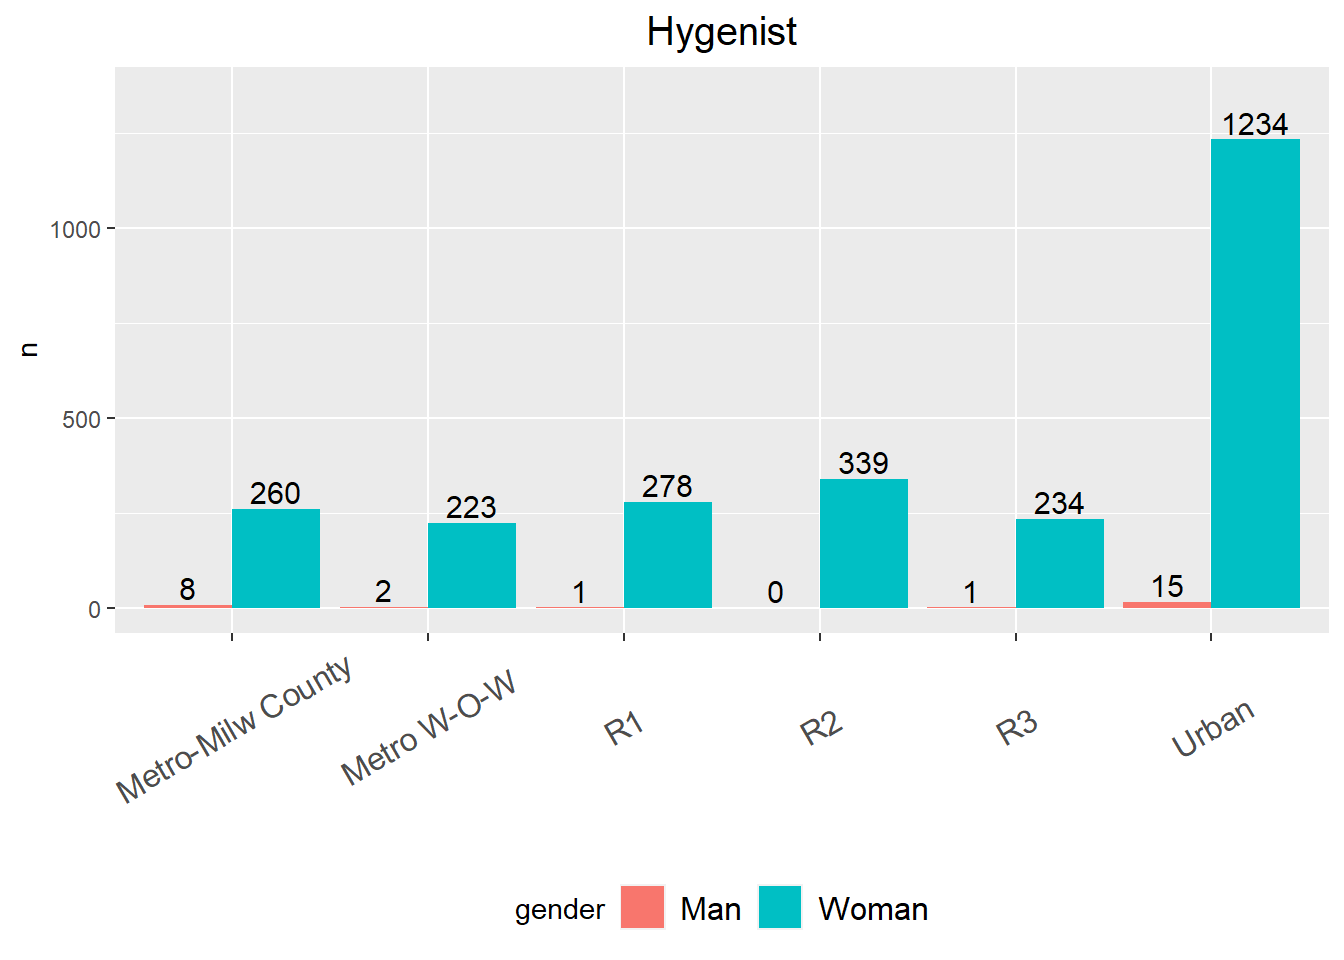
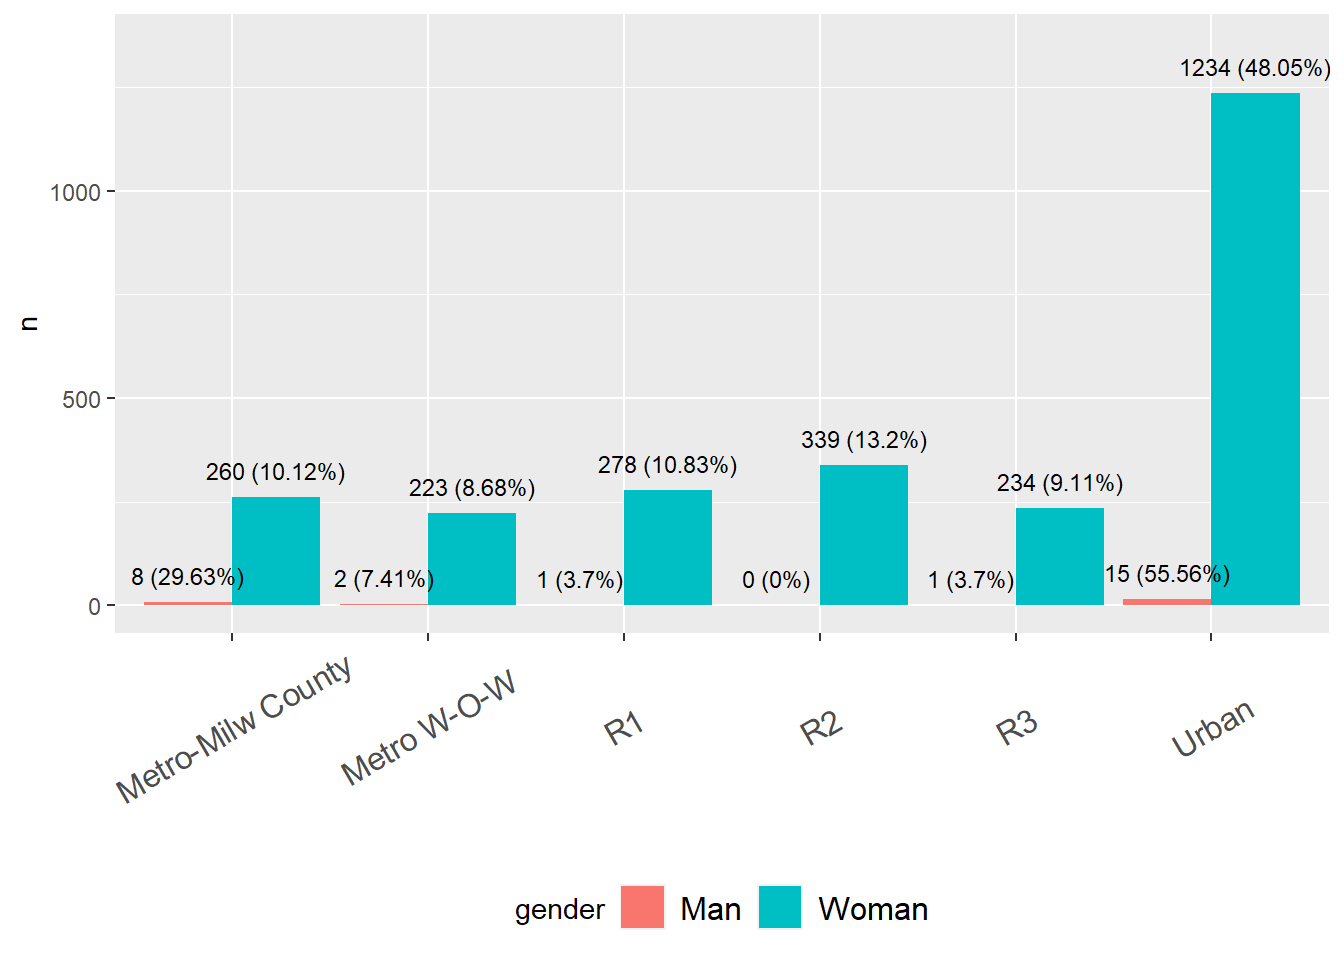
9/5/2024

diff --git a/docs/2024_0701_survey.html b/docs/2024_0701_survey.html
@@ -574,15 +574,15 @@ analysis/Rfunctions.R
 <div class="panel panel-default">
 <div class="panel-heading">
 <p class="panel-title">
-<a data-toggle="collapse" data-parent="#workflowr-checks" href="#strongRepositoryversionstrongahrefhttpsgithubcomhan16Collaborationstreebf9902418870bff7b124f9c7e870b2d677e77616targetblankbf99024a">
+<a data-toggle="collapse" data-parent="#workflowr-checks" href="#strongRepositoryversionstrongahrefhttpsgithubcomhan16Collaborationstree0af905612153265ea258df860f1b224e6300734btargetblank0af9056a">
 <span class="glyphicon glyphicon-ok text-success"
 aria-hidden="true"></span> <strong>Repository version:</strong>
-<a href="https://github.com/han16/Collaborations/tree/bf9902418870bff7b124f9c7e870b2d677e77616" target="_blank">bf99024</a>
+<a href="https://github.com/han16/Collaborations/tree/0af905612153265ea258df860f1b224e6300734b" target="_blank">0af9056</a>
 </a>
 </p>
 </div>
 <div
[2 lines of base64/hex data omitted]
 class="panel-collapse collapse">
 <div class="panel-body">
 <p>
@@ -592,7 +592,7 @@ reproducibility.
 </p>
 <p>
 The results in this page were generated with repository version
-<a href="https://github.com/han16/Collaborations/tree/bf9902418870bff7b124f9c7e870b2d677e77616" target="_blank">bf99024</a>.
+<a href="https://github.com/han16/Collaborations/tree/0af905612153265ea258df860f1b224e6300734b" target="_blank">0af9056</a>.
 See the <em>Past versions</em> tab to see a history of the changes made
 to the R Markdown and HTML files.
 </p>
@@ -658,6 +658,40 @@ Message
 </tr>
 </thead>
 <tbody>
+<tr>
+<td>
+Rmd
+</td>
+<td>
+<a href="https://github.com/han16/Collaborations/blob/0af905612153265ea258df860f1b224e6300734b/analysis/2024_0701_survey.Rmd" target="_blank">0af9056</a>
+</td>
+<td>
+han
+</td>
+<td>
+2024-09-05
+</td>
+<td>
+9/5/2024
+</td>
+</tr>
+<tr>
+<td>
+html
+</td>
+<td>
+<a href="https://rawcdn.githack.com/han16/Collaborations/0af905612153265ea258df860f1b224e6300734b/docs/2024_0701_survey.html" target="_blank">0af9056</a>
+</td>
+<td>
+han
+</td>
+<td>
+2024-09-05
+</td>
+<td>
+9/5/2024
+</td>
+</tr>
 <tr>
 <td>
 Rmd
@@ -2170,6 +2204,17 @@ Date
 <tbody>
 <tr>
 <td>
+<a href="https://github.com/han16/Collaborations/blob/0af905612153265ea258df860f1b224e6300734b/docs/figure/2024_0701_survey.Rmd/unnamed-chunk-13-1.png" target="_blank">0af9056</a>
+</td>
+<td>
+han
+</td>
+<td>
+2024-09-05
+</td>
+</tr>
+<tr>
+<td>
 <a href="https://github.com/han16/Collaborations/blob/bf9902418870bff7b124f9c7e870b2d677e77616/docs/figure/2024_0701_survey.Rmd/unnamed-chunk-13-1.png" target="_blank">bf99024</a>
 </td>
 <td>
@@ -2257,6 +2302,17 @@ Date
 </tr>
 </thead>
 <tbody>
+<tr>
+<td>
+<a href="https://github.com/han16/Collaborations/blob/0af905612153265ea258df860f1b224e6300734b/docs/figure/2024_0701_survey.Rmd/unnamed-chunk-14-1.png" target="_blank">0af9056</a>
+</td>
+<td>
+han
+</td>
+<td>
+2024-09-05
+</td>
+</tr>
 <tr>
 <td>
 <a href="https://github.com/han16/Collaborations/blob/bf9902418870bff7b124f9c7e870b2d677e77616/docs/figure/2024_0701_survey.Rmd/unnamed-chunk-14-1.png" target="_blank">bf99024</a>
@@ -2892,7 +2948,14 @@ datatable(extensions = &#39;Buttons&#39;,
 gender_prop=sapply(gender_geo, function(x) c(sum(x==&quot;Man&quot;, na.rm = T), sum(x==&quot;Woman&quot;, na.rm = T))) 
 gender_geo_data=data.frame(geo=rep(region_code_update,each=2), num=as.vector(gender_prop), gender=rep(c(&quot;Man&quot;, &quot;Woman&quot;), length(region_code_update))) %&gt;% drop_na()
 
-fig=side_by_side_barplot(gender_geo_data, angle=30, num_size = 4, x_text_size=12, legend_text_size=12, title=&quot;Hygenist&quot;)
+man_total=sum(gender_geo_data %&gt;% filter(gender==&quot;Man&quot;) %&gt;% select(num) %&gt;% pull())
+woman_total=sum(gender_geo_data %&gt;% filter(gender==&quot;Woman&quot;) %&gt;% select(num) %&gt;% pull())
+prop=numeric()
+prop[seq(1,11,by=2)]=gender_geo_data$num[seq(1,11,by=2)]/man_total
+prop[seq(2,12,by=2)]=gender_geo_data$num[seq(2,12,by=2)]/woman_total
+gender_geo_data=gender_geo_data %&gt;% mutate(prop=round(prop,4))
+
+fig=side_by_side_barplot(gender_geo_data, angle=30, num_size = 3, x_text_size=12, legend_text_size=12, title=&quot;Hygenist&quot;)
 fig</code></pre>
 <p><img src="figure/2024_0701_survey.Rmd/unnamed-chunk-26-1.png" width="672" style="display: block; margin: auto;" /></p>
 <p>
@@ -2940,7 +3003,7 @@ datatable(extensions = &#39;Buttons&#39;,
                            lengthMenu = list(c(10,25,50,-1),
                                              c(10,25,50,&quot;All&quot;))))</code></pre>
 <div class="datatables html-widget html-fill-item" id="htmlwidget-969965edfe9f869aa904" style="width:100%;height:auto;"></div>
-<script type="application/json" data-for="htmlwidget-969965edfe9f869aa904">{"x":{"filter":"none","vertical":false,"extensions":["Buttons"],"caption":"<caption><\/caption>","data":[["1","2","3","4","5","6","7","8","9","10","11","12"],["R1","R1","Metro W-O-W","Metro W-O-W","Urban","Urban","R2","R2","R3","R3","Metro-Milw County","Metro-Milw County"],[1,278,2,223,15,1234,0,339,1,234,8,260],["Man","Woman","Man","Woman","Man","Woman","Man","Woman","Man","Woman","Man","Woman"]],"container":"<table class=\"display\">\n  <thead>\n    <tr>\n      <th> <\/th>\n      <th>geo<\/th>\n      <th>num<\/th>\n      <th>gender<\/th>\n    <\/tr>\n  <\/thead>\n<\/table>","options":{"dom":"Blfrtip","buttons":["copy","csv","excel","pdf","print"],"lengthMenu":[[10,25,50,-1],["10","25","50","All"]],"columnDefs":[{"className":"dt-right","targets":2},{"orderable":false,"targets":0},{"name":" ","targets":0},{"name":"geo","targets":1},{"name":"num","targets":2},{"name":"gender","targets":3}],"order":[],"autoWidth":false,"orderClasses":false},"selection":{"mode":"multiple","selected":null,"target":"row","selectable":null}},"evals":[],"jsHooks":[]}</script>
+<script type="application/json" data-for="htmlwidget-969965edfe9f869aa904">{"x":{"filter":"none","vertical":false,"extensions":["Buttons"],"caption":"<caption><\/caption>","data":[["1","2","3","4","5","6","7","8","9","10","11","12"],["R1","R1","Metro W-O-W","Metro W-O-W","Urban","Urban","R2","R2","R3","R3","Metro-Milw County","Metro-Milw County"],[1,278,2,223,15,1234,0,339,1,234,8,260],["Man","Woman","Man","Woman","Man","Woman","Man","Woman","Man","Woman","Man","Woman"],[0.037,0.1083,0.0741,0.0868,0.5556,0.4805,0,0.132,0.037,0.0911,0.2963,0.1012]],"container":"<table class=\"display\">\n  <thead>\n    <tr>\n      <th> <\/th>\n      <th>geo<\/th>\n      <th>num<\/th>\n      <th>gender<\/th>\n      <th>prop<\/th>\n    <\/tr>\n  <\/thead>\n<\/table>","options":{"dom":"Blfrtip","buttons":["copy","csv","excel","pdf","print"],"lengthMenu":[[10,25,50,-1],["10","25","50","All"]],"columnDefs":[{"className":"dt-right","targets":[2,4]},{"orderable":false,"targets":0},{"name":" ","targets":0},{"name":"geo","targets":1},{"name":"num","targets":2},{"name":"gender","targets":3},{"name":"prop","targets":4}],"order":[],"autoWidth":false,"orderClasses":false},"selection":{"mode":"multiple","selected":null,"target":"row","selectable":null}},"evals":[],"jsHooks":[]}</script>
 <pre class="r"><code>### sum(gender_geo_data$num) is not but should be equal to Dental_Hygienist$`Dental H`%&gt;% filter(`Gender Identity`==&quot;Man&quot; | `Gender Identity`==&quot;Woman&quot;) %&gt;% nrow()  ?????????? </code></pre>
 <ul>
 <li>only keep <code>Man</code> and <code>Woman</code> and ignore other
@@ -2950,7 +3013,15 @@ responses</li>
 gender_prop=sapply(gender_geo, function(x) c(sum(x==&quot;Man&quot;, na.rm=T), sum(x==&quot;Woman&quot;, na.rm=T))) 
 gender_geo_data=data.frame(geo=rep(region_code_update,each=2), num=as.vector(gender_prop), gender=rep(c(&quot;Man&quot;, &quot;Woman&quot;), length(region_code_update))) %&gt;% drop_na()
 
-fig=side_by_side_barplot(gender_geo_data, angle=30, num_size = 4, x_text_size=12, legend_text_size=12, title=&quot;Dentist_Survey&quot;)
+
+man_total=sum(gender_geo_data %&gt;% filter(gender==&quot;Man&quot;) %&gt;% select(num) %&gt;% pull())
+woman_total=sum(gender_geo_data %&gt;% filter(gender==&quot;Woman&quot;) %&gt;% select(num) %&gt;% pull())
+prop=numeric()
+prop[seq(1,11,by=2)]=gender_geo_data$num[seq(1,11,by=2)]/man_total
+prop[seq(2,12,by=2)]=gender_geo_data$num[seq(2,12,by=2)]/woman_total
+gender_geo_data=gender_geo_data %&gt;% mutate(prop=round(prop,4))
+
+fig=side_by_side_barplot(gender_geo_data, angle=30, num_size = 2.5, x_text_size=12, legend_text_size=12, title=&quot;Dentist_Survey&quot;)
 fig</code></pre>
 <p><img src="figure/2024_0701_survey.Rmd/unnamed-chunk-27-1.png" width="672" style="display: block; margin: auto;" /></p>
 <p>
@@ -2998,7 +3069,7 @@ datatable(extensions = &#39;Buttons&#39;,
                            lengthMenu = list(c(10,25,50,-1),
                                              c(10,25,50,&quot;All&quot;))))</code></pre>
 <div class="datatables html-widget html-fill-item" id="htmlwidget-450f171f14364aa3ebed" style="width:100%;height:auto;"></div>
-<script type="application/json" data-for="htmlwidget-450f171f14364aa3ebed">{"x":{"filter":"none","vertical":false,"extensions":["Buttons"],"caption":"<caption><\/caption>","data":[["1","2","3","4","5","6","7","8","9","10","11","12"],["R1","R1","Metro W-O-W","Metro W-O-W","Urban","Urban","R2","R2","R3","R3","Metro-Milw County","Metro-Milw County"],[100,58,120,71,551,317,147,85,100,63,178,123],["Man","Woman","Man","Woman","Man","Woman","Man","Woman","Man","Woman","Man","Woman"]],"container":"<table class=\"display\">\n  <thead>\n    <tr>\n      <th> <\/th>\n      <th>geo<\/th>\n      <th>num<\/th>\n      <th>gender<\/th>\n    <\/tr>\n  <\/thead>\n<\/table>","options":{"dom":"Blfrtip","buttons":["copy","csv","excel","pdf","print"],"lengthMenu":[[10,25,50,-1],["10","25","50","All"]],"columnDefs":[{"className":"dt-right","targets":2},{"orderable":false,"targets":0},{"name":" ","targets":0},{"name":"geo","targets":1},{"name":"num","targets":2},{"name":"gender","targets":3}],"order":[],"autoWidth":false,"orderClasses":false},"selection":{"mode":"multiple","selected":null,"target":"row","selectable":null}},"evals":[],"jsHooks":[]}</script>
+<script type="application/json" data-for="htmlwidget-450f171f14364aa3ebed">{"x":{"filter":"none","vertical":false,"extensions":["Buttons"],"caption":"<caption><\/caption>","data":[["1","2","3","4","5","6","7","8","9","10","11","12"],["R1","R1","Metro W-O-W","Metro W-O-W","Urban","Urban","R2","R2","R3","R3","Metro-Milw County","Metro-Milw County"],[100,58,120,71,551,317,147,85,100,63,178,123],["Man","Woman","Man","Woman","Man","Woman","Man","Woman","Man","Woman","Man","Woman"],[0.08359999999999999,0.0809,0.1003,0.099,0.4607,0.4421,0.1229,0.1185,0.08359999999999999,0.08790000000000001,0.1488,0.1715]],"container":"<table class=\"display\">\n  <thead>\n    <tr>\n      <th> <\/th>\n      <th>geo<\/th>\n      <th>num<\/th>\n      <th>gender<\/th>\n      <th>prop<\/th>\n    <\/tr>\n  <\/thead>\n<\/table>","options":{"dom":"Blfrtip","buttons":["copy","csv","excel","pdf","print"],"lengthMenu":[[10,25,50,-1],["10","25","50","All"]],"columnDefs":[{"className":"dt-right","targets":[2,4]},{"orderable":false,"targets":0},{"name":" ","targets":0},{"name":"geo","targets":1},{"name":"num","targets":2},{"name":"gender","targets":3},{"name":"prop","targets":4}],"order":[],"autoWidth":false,"orderClasses":false},"selection":{"mode":"multiple","selected":null,"target":"row","selectable":null}},"evals":[],"jsHooks":[]}</script>
 <pre class="r"><code>sum(gender_geo_data$num)</code></pre>
 <pre><code>[1] 1913</code></pre>
 </div>
@@ -3169,7 +3240,7 @@ datatable(extensions = &#39;Buttons&#39;,
                            lengthMenu = list(c(10,25,50,-1),
                                              c(10,25,50,&quot;All&quot;))))</code></pre>
 <div class="datatables html-widget html-fill-item" id="htmlwidget-fbfc52d82635d988c6e1" style="width:100%;height:auto;"></div>
-<script type="application/json" data-for="htmlwidget-fbfc52d82635d988c6e1">{"x":{"filter":"none","vertical":false,"extensions":["Buttons"],"caption":"<caption><\/caption>","data":[["1","2","3","4","5","6","7","8","9","10","11","12"],["R1","R1","Metro W-O-W","Metro W-O-W","Urban","Urban","R2","R2","R3","R3","Metro-Milw County","Metro-Milw County"],[100,58,120,71,551,317,147,85,100,63,178,123],["Man","Woman","Man","Woman","Man","Woman","Man","Woman","Man","Woman","Man","Woman"]],"container":"<table class=\"display\">\n  <thead>\n    <tr>\n      <th> <\/th>\n      <th>geo<\/th>\n      <th>num<\/th>\n      <th>gender<\/th>\n    <\/tr>\n  <\/thead>\n<\/table>","options":{"dom":"Blfrtip","buttons":["copy","csv","excel","pdf","print"],"lengthMenu":[[10,25,50,-1],["10","25","50","All"]],"columnDefs":[{"className":"dt-right","targets":2},{"orderable":false,"targets":0},{"name":" ","targets":0},{"name":"geo","targets":1},{"name":"num","targets":2},{"name":"gender","targets":3}],"order":[],"autoWidth":false,"orderClasses":false},"selection":{"mode":"multiple","selected":null,"target":"row","selectable":null}},"evals":[],"jsHooks":[]}</script>
+<script type="application/json" data-for="htmlwidget-fbfc52d82635d988c6e1">{"x":{"filter":"none","vertical":false,"extensions":["Buttons"],"caption":"<caption><\/caption>","data":[["1","2","3","4","5","6","7","8","9","10","11","12"],["R1","R1","Metro W-O-W","Metro W-O-W","Urban","Urban","R2","R2","R3","R3","Metro-Milw County","Metro-Milw County"],[100,58,120,71,551,317,147,85,100,63,178,123],["Man","Woman","Man","Woman","Man","Woman","Man","Woman","Man","Woman","Man","Woman"],[0.08359999999999999,0.0809,0.1003,0.099,0.4607,0.4421,0.1229,0.1185,0.08359999999999999,0.08790000000000001,0.1488,0.1715]],"container":"<table class=\"display\">\n  <thead>\n    <tr>\n      <th> <\/th>\n      <th>geo<\/th>\n      <th>num<\/th>\n      <th>gender<\/th>\n      <th>prop<\/th>\n    <\/tr>\n  <\/thead>\n<\/table>","options":{"dom":"Blfrtip","buttons":["copy","csv","excel","pdf","print"],"lengthMenu":[[10,25,50,-1],["10","25","50","All"]],"columnDefs":[{"className":"dt-right","targets":[2,4]},{"orderable":false,"targets":0},{"name":" ","targets":0},{"name":"geo","targets":1},{"name":"num","targets":2},{"name":"gender","targets":3},{"name":"prop","targets":4}],"order":[],"autoWidth":false,"orderClasses":false},"selection":{"mode":"multiple","selected":null,"target":"row","selectable":null}},"evals":[],"jsHooks":[]}</script>
 <pre class="r"><code>sum(gender_geo_data$num)</code></pre>
 <pre><code>[1] 1913</code></pre>
 <br>
